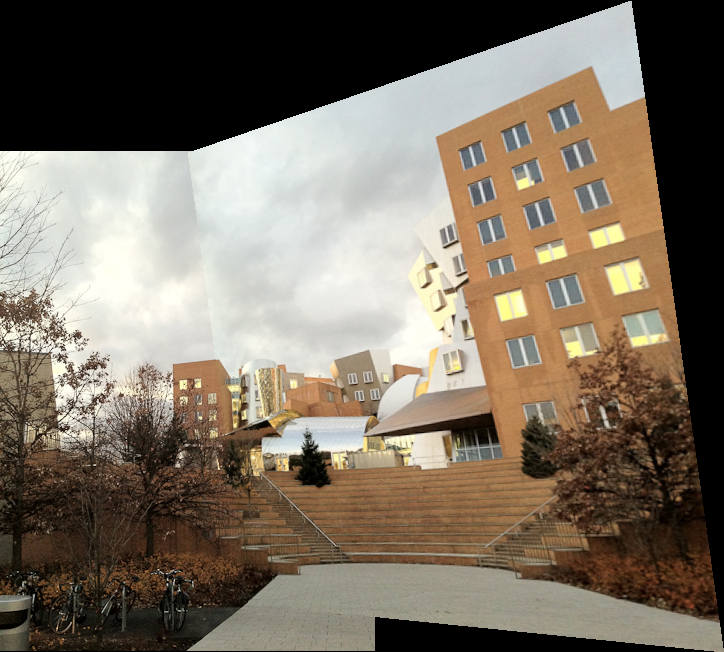
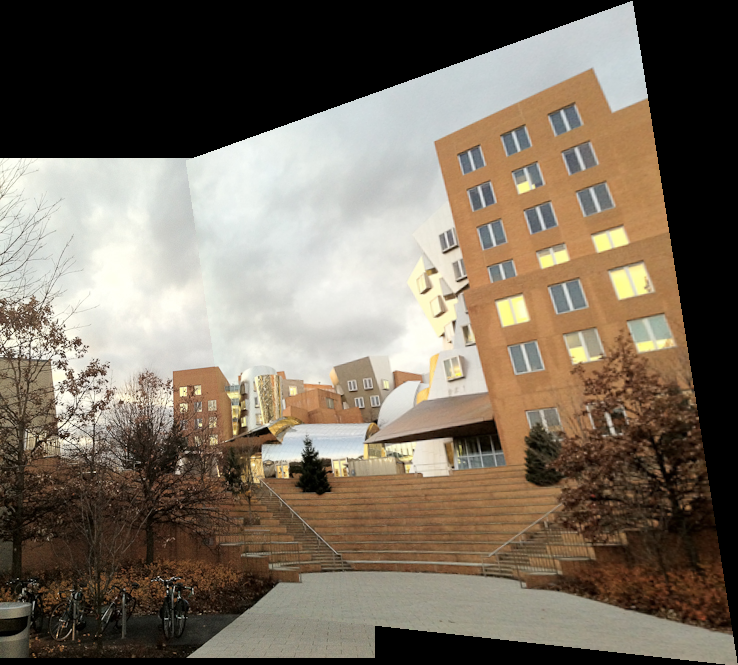
Linear blending done

diff --git a/a7.py b/a7.py
@@ -101,7 +101,7 @@ def findCorrespondence(feature1, listFeatures2, threshold=1.7):
     return None
   return correspondence(feature1.pt, listFeatures2[minIndex].pt)
 
-def RANSAC(listOfCorrespondences, Niter=5000, epsilon=4, acceptableProbFailure=1e-9):
+def RANSAC(listOfCorrespondences, Niter=1000, epsilon=4, acceptableProbFailure=1e-9):
   '''H_best: the best estimation of homorgraphy (3-by-3 matrix)'''
   '''inliers: A list of booleans that describe whether the element in listOfCorrespondences
   an inlier or not'''
@@ -159,15 +159,53 @@ def autostitch(L, refIndex, blurDescriptor=0.5, radiusDescriptor=4):
 
 def weight_map(h,w):
   ''' Given the image dimension h and w, return the hxwx3 weight map for linear blending'''
+  w_map = np.zeros((h, w, 3))
+  halfHeight = float(h/2)
+  halfWidth = float(w/2)
+  for y, x in imIter(w_map):
+    w_map[y, x] = (1 - abs(y - halfHeight)/halfHeight) * (1 - abs(x - halfWidth)/halfWidth)
   return w_map
 
 def linear_blending(L, refIndex, blurDescriptor=0.5, radiusDescriptor=4):
   ''' Return the stitching result with linear blending'''
-  return out
+  H_list = computeNHomographies(L, refIndex, blurDescriptor, radiusDescriptor)
+  weights = weight_map(L[0].shape[0], L[0].shape[1])
+  return compositeNImages(L, H_list, weights)
 
 def two_scale_blending(L, refIndex, blurDescriptor=0.5, radiusDescriptor=4):
   ''' Return the stitching result with two scale blending'''
   return out
+
+def compositeNImages(listOfImages, listOfH, weights):
+  # Computes the composite image. listOfH is of the form returned by computeNHomographies.
+  # Hint: You will need to deal with bounding boxes and translations again in this function.
+  bbox = a6.computeTransformedBBox(listOfImages[0].shape, listOfH[0])
+  for img, H in zip(listOfImages, listOfH):
+    currentbbox = a6.computeTransformedBBox(img.shape, H)
+    bbox = a6.bboxUnion(currentbbox, bbox)
+  trans = a6.translate(bbox)
+  out = np.zeros((bbox[1][0] - bbox[0][0], bbox[1][1] - bbox[0][1], 3))
+  weightIm = np.zeros((out.shape[0], out.shape[1], 3))
+  for img, H in zip(listOfImages, listOfH):
+    applyHomographyFast(img, out, trans.dot(H), weights, weightIm, True)
+  weightIm[weightIm == 0] = np.min(weightIm[weightIm.nonzero()]) # no zero in denominators
+  return out / weightIm
+
+def applyHomographyFast(source, out, H, weights, weightIm, bilinear=False):
+  # takes the image source, warps it by the homography H, and adds it to the composite out.
+  # This version should only iterate over the pixels inside the bounding box of source's image in out.
+  bbox = a6.computeTransformedBBox(source.shape, H)
+  Hinv = linalg.inv(H)
+  for y in xrange(bbox[0][0], bbox[1][0]):
+    for x in xrange(bbox[0][1], bbox[1][1]):
+      yp, xp, w = Hinv.dot(np.array([y, x, 1.0]))
+      yp, xp = (yp / w, xp / w)
+      if yp >= 0 and yp < source.shape[0] and xp >= 0 and xp < source.shape[1]:
+        weightIm[y, x] += weights[yp, xp]
+        if bilinear:
+          out[y, x] += weights[yp, xp] * a6.interpolateLin(source, yp, xp)
+        else:
+          out[y, x] += weights[yp, xp] * source[int(round(yp)), int(round(xp))]
 
 # Helpers, you may use the following scripts for convenience.
 def A7PointToA6Point(a7_point):

diff --git a/a7_test.py b/a7_test.py
@@ -173,10 +173,10 @@ def _magic123(im):
 # test_computeFeatures()
 # test_findCorrespondence()
 # test_RANSAC()
-test_autostitch()
+# test_autostitch()
 # test_autostitch2()
 # test_linear_blending()
-# test_linear_blending2()
+test_linear_blending2()
 # test_two_scale_blending()
 # test_two_scale_blending2()
 
